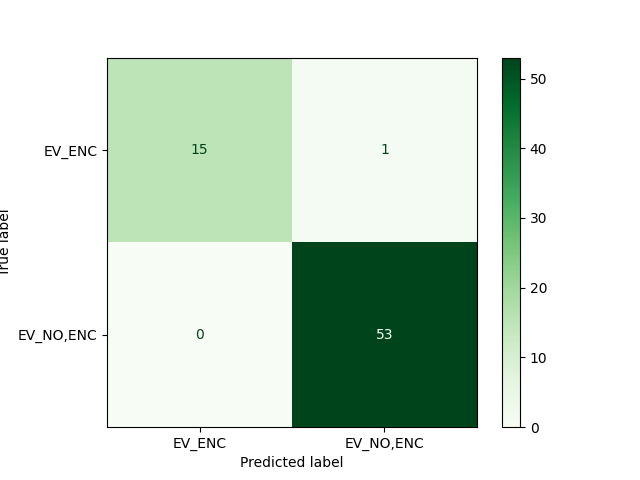
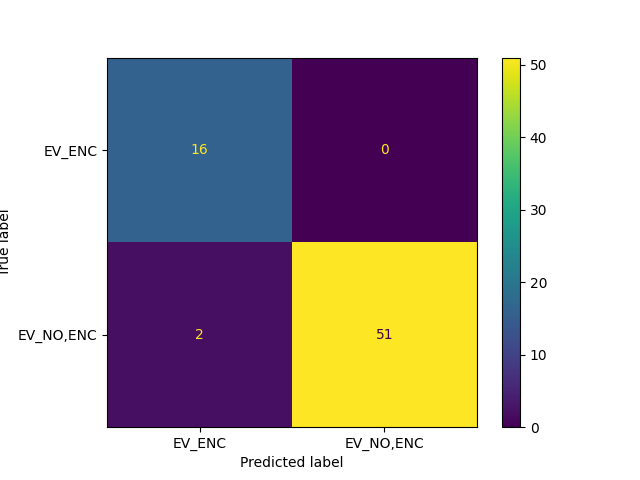
new sklearn and numpy version used

diff --git a/SMOTE_randomforest.py b/SMOTE_randomforest.py
@@ -4,7 +4,8 @@ from matplotlib import pyplot
 from sklearn.model_selection import train_test_split
 from sklearn.model_selection import cross_validate
 from sklearn.model_selection import RepeatedStratifiedKFold
-from sklearn.metrics import plot_confusion_matrix
+from sklearn.metrics import confusion_matrix,ConfusionMatrixDisplay
+
 from sklearn.ensemble import RandomForestClassifier
 from imblearn.over_sampling import SMOTE
 import mne
@@ -89,6 +90,10 @@ for sub in range(1,subs+1,1):
     precision_test = precision_score(y_test, y_pred)
     print('The precison score for the testing data:', precision_test)
     #Create confusion matrix
-    fig = plot_confusion_matrix(SMOTE_SRF, X_test, y_test, display_labels=['EV_ENC', 'EV_NO,ENC'], cmap='Greens')
+    #fig = confusion_matrix(SMOTE_SRF, X_test, y_test, display_labels=['EV_ENC', 'EV_NO,ENC'], cmap='Greens')
+    cm = confusion_matrix(y_test, y_pred)
+    print(cm)
+    cmd = ConfusionMatrixDisplay(cm, display_labels=['EV_ENC', 'EV_NO,ENC'])
+    cmd.plot()
     plt.savefig(f'confmatSMOTE/subj{sub}clf{clf}')
 plot_metrics(All_meterics,clf)

diff --git a/FBCSP.py b/FBCSP.py
@@ -28,7 +28,7 @@ class FBCSP:
 
     def transform(self,x_data,class_idx=0):
         n_fbanks, n_trials, n_channels, n_samples = x_data.shape
-        x_features = np.zeros((n_trials,self.m_filters*2*len(x_data)),dtype=float)
+        x_features = np.zeros((n_trials,self.m_filters*2*len(x_data)),dtype=np.float64)
         for i in range(n_fbanks):
             print(f'ind {i},class_idx{class_idx}')
             eig_vectors = self.fbcsp_filters_multi[class_idx].get(i).get('u_mat')

diff --git a/CSP.py b/CSP.py
@@ -9,7 +9,7 @@ class CSP:
         x_data = np.copy(x_train)
         y_labels = np.copy(y_train)
         n_trials, n_channels, n_samples = x_data.shape
-        cov_x = np.zeros((2, n_channels, n_channels), dtype=np.float)
+        cov_x = np.zeros((2, n_channels, n_channels), dtype=np.float64)
         for i in range(n_trials):
             x_trial = x_data[i, :, :]
             y_trial = y_labels[i]
